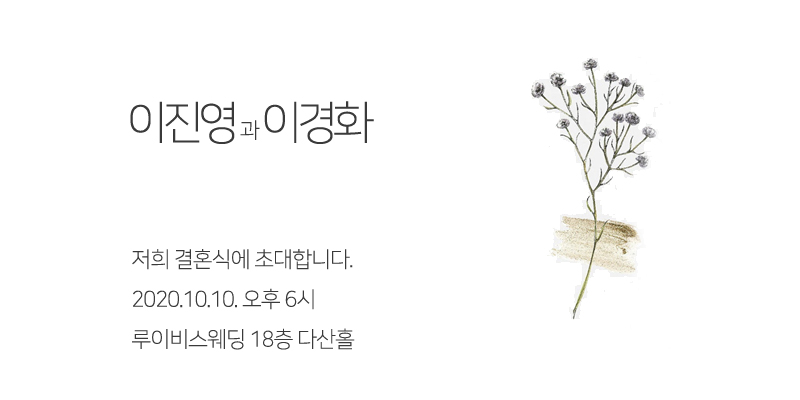
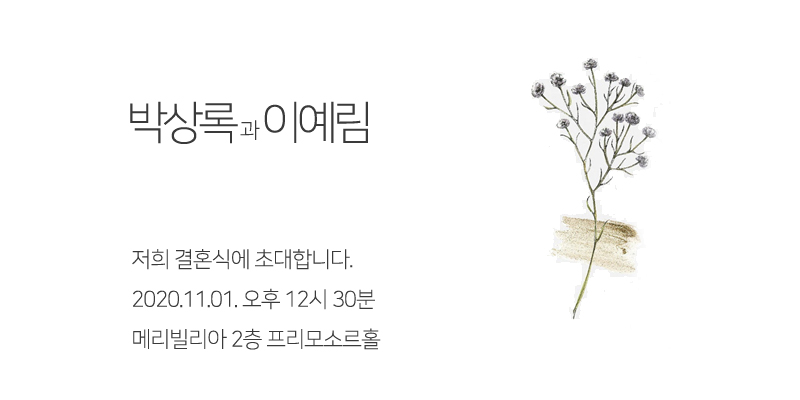
- 수정

diff --git a/wemarry/templates/ixjwgfi51r.html b/wemarry/templates/ixjwgfi51r.html
@@ -2,14 +2,14 @@
 <html>
 
 <head>
-    <title>[이진영♥이경화] 결혼식에 초대합니다.</title>
+    <title>[박상록♥이예림] 결혼식에 초대합니다.</title>
     <meta charset="utf-8">
     <meta http-equiv="Content-Type" content="text/html; charset=utf-8" />
     <meta name="viewport" content="width=device-width, user-scalable=no">
     <meta http-equiv="X-UA-Compatible" content="IE=edge" />
     <meta property="og:image" content="https://wemarry.pythonanywhere.com/media/ixjwgfi51r/web_share.jpg" />
-    <meta property="og:title" content="[이진영♥이경화] 결혼식에 초대합니다." />
-    <meta property="og:description" content="[이진영♥이경화] 결혼식에 초대합니다." />
+    <meta property="og:title" content="[박상록♥이예림] 결혼식에 초대합니다." />
+    <meta property="og:description" content="[박상록♥이예림] 결혼식에 초대합니다." />
 
     <link rel="stylesheet" type="text/css" href="https://cdn.jsdelivr.net/gh/moonspam/NanumSquare@1.0/nanumsquare.css">
     <!-- Link Swiper's CSS -->
@@ -23,44 +23,24 @@
 
     <script>
         var gallery_url = [];
-        gallery_url.push("https://1.bp.blogspot.com/-ukKm9taMtAo/XzIXDW6TlkI/AAAAAAABLSw/5SUefKplt7U0bStpzMLazGEgm20IQ3loACLcBGAsYHQ/s640/01.jpg");
-        gallery_url.push("https://1.bp.blogspot.com/-Jin_v2Uk55w/XzIXDRYRZbI/AAAAAAABLS4/MqG7-6DEL1YpJJyIAaLaR5OH-hLBjcszACLcBGAsYHQ/s640/02.jpg");
-        gallery_url.push("https://1.bp.blogspot.com/-8MxMFzEQ7mQ/XzIXDTyyDiI/AAAAAAABLS0/yf3nELH_dqw0DkFdIp-mw6S_xdps2N2twCLcBGAsYHQ/s640/03.jpg");
-        gallery_url.push("https://1.bp.blogspot.com/-xX_bTnizjps/XzIXFNlasxI/AAAAAAABLS8/pfHUEeVUrD4p7RyDMupUHW1ij9iFLmuTgCLcBGAsYHQ/s640/04.jpg");
-        gallery_url.push("https://1.bp.blogspot.com/-NtWBN-Y0DXQ/XzIXFReQjJI/AAAAAAABLTE/zPy1JOjqVm80aoO4RHOgqSYdxL81Gc_HACLcBGAsYHQ/s640/05.jpg");
-        gallery_url.push("https://1.bp.blogspot.com/-oHBIupn1vH0/XzIXFPX8OII/AAAAAAABLTA/J1YFe_aceRAD2e6lzp6AfOgjKrlBnW4-wCLcBGAsYHQ/s640/06.jpg");
-        gallery_url.push("https://1.bp.blogspot.com/-7saQO0ES29c/XzIXHKiYGBI/AAAAAAABLTM/Y72iWMqMz5oYBOpPKQJaUyu1r5j0VDM6gCLcBGAsYHQ/s640/07.jpg");
-        gallery_url.push("https://1.bp.blogspot.com/-H0eiFoxwwoI/XzIXG4hnHII/AAAAAAABLTI/5O4rqTuYA00AB_Kst2z3B0kT3K6jzCebQCLcBGAsYHQ/s640/08.jpg");
-        gallery_url.push("https://1.bp.blogspot.com/-XFOnen1HxvM/XzIXHKh09KI/AAAAAAABLTQ/bCLSP5boLAw35k4scPSTA1hBXOCEhSijwCLcBGAsYHQ/s640/09.jpg");
-        gallery_url.push("https://1.bp.blogspot.com/-u41sMbN7ZZ0/XzIXI7aWTMI/AAAAAAABLTY/Y1zums082osIFr3tOGH4p8GxJbpOavGFgCLcBGAsYHQ/s640/10.jpg");
-        gallery_url.push("https://1.bp.blogspot.com/-5bqRtEfzuZM/XzIXIwYTnUI/AAAAAAABLTc/ucZuuJU-yd8nPlVLlaEM6tEbh3L9blUzACLcBGAsYHQ/s640/11.jpg");
-        gallery_url.push("https://1.bp.blogspot.com/-mcmOwSU-_nA/XzIXI_7-anI/AAAAAAABLTU/v4Lla2C2prABxoZBVXmxSaWMuq8eJQqXQCLcBGAsYHQ/s640/12.jpg");
-        gallery_url.push("https://1.bp.blogspot.com/-Ln4r_P_nHwk/XzIXKcybmjI/AAAAAAABLTg/SakdQz3xMJIXttnASCHWjJT9c67hGnJFwCLcBGAsYHQ/s640/13.jpg");
-        gallery_url.push("https://1.bp.blogspot.com/-ocC8BOU43Ns/XzIXK2OlZWI/AAAAAAABLTk/6OsmkpIAApw3EpD-LybIfUJUeCsD-693wCLcBGAsYHQ/s640/14.jpg");
-        gallery_url.push("https://1.bp.blogspot.com/-k90B3D5tEK8/XzIXLXciEQI/AAAAAAABLTo/FyCEWSu4Cj0goZBG_t92y7mhrAr0BpyrgCLcBGAsYHQ/s640/15.jpg");
-        gallery_url.push("https://1.bp.blogspot.com/-R2199CtNKHo/XzIXLpBSPVI/AAAAAAABLTs/vq1mCmj8isQKCqmBpw9MJKiWofonLzCvwCLcBGAsYHQ/s640/16.jpg");
-        gallery_url.push("https://1.bp.blogspot.com/-u3za1-PCGPY/XzIXMOqX6VI/AAAAAAABLTw/vR4HRXWPpZQLhS90b6xQwXbFbizkSrx0gCLcBGAsYHQ/s640/17.jpg");
-        gallery_url.push("https://1.bp.blogspot.com/-Reg3uUiiJFI/XzIXNAez6FI/AAAAAAABLT4/cU1M4od77wo3NUjyHFVKmva7ufiIBrB5ACLcBGAsYHQ/s640/18.jpg");
-        gallery_url.push("https://1.bp.blogspot.com/-LjLCHbWFkQc/XzIXNIIQfRI/AAAAAAABLT0/IrWEPI5Nr3wF--GUfZtkjDAjBXsrL39vQCLcBGAsYHQ/s640/19.jpg");
-        gallery_url.push("https://1.bp.blogspot.com/-z_dRFmJ93lw/XzIXNXTjogI/AAAAAAABLT8/TK4IXGwUwEQ9yJw6evAh5d-gt7lcPQjYQCLcBGAsYHQ/s640/20.jpg");
-        gallery_url.push("https://1.bp.blogspot.com/-RKfkBakVEk8/XzIXOdOGjqI/AAAAAAABLUE/F1CA_DQ77WMmRaJCpAme-_bu9bR5aENLwCLcBGAsYHQ/s640/21.jpg");
-        gallery_url.push("https://1.bp.blogspot.com/-qLwsgcG1JRE/XzIXORClXxI/AAAAAAABLUA/s5W-OePh97k2DshBFKpf87FAvzXi7uPiwCLcBGAsYHQ/s640/22.jpg");
-        gallery_url.push("https://1.bp.blogspot.com/-LrNcCcp0Kc8/XzIXOvziTxI/AAAAAAABLUI/yhhtf1s42fgjx3tO8YN-4RqSCbmpa09LACLcBGAsYHQ/s640/23.jpg");
-        gallery_url.push("https://1.bp.blogspot.com/-RAqkcz0dfMo/XzIXPzaH56I/AAAAAAABLUM/BGY49lUqLM83fGUajRb-I-_1CuzGkbYSwCLcBGAsYHQ/s640/24.jpg");
-        gallery_url.push("https://1.bp.blogspot.com/-rrgporfPg_s/XzIXQLjPYAI/AAAAAAABLUU/KXHTHtt8XJMjUZp2PSxxLyIzQ9iefKqUgCLcBGAsYHQ/s640/25.jpg");
-        gallery_url.push("https://1.bp.blogspot.com/-CTVZNtNUDKI/XzIXQOuz_rI/AAAAAAABLUQ/MtSbERx0K8wDyJr9u6i0wskT5FMMz2M2ACLcBGAsYHQ/s640/26.jpg");
-        gallery_url.push("https://1.bp.blogspot.com/-BpQLbrAxJ9M/XzIXRQFuslI/AAAAAAABLUY/FbGsl4ot4jgVRKMyiB52eII0H77EoatJwCLcBGAsYHQ/s640/27.jpg");
-        gallery_url.push("https://1.bp.blogspot.com/-77aPuOGlElU/XzIXRhxUQgI/AAAAAAABLUc/gVrLrRv64XIO3REnVrf4tq_Vh5X6a0lRQCLcBGAsYHQ/s640/28.jpg");
-        gallery_url.push("https://1.bp.blogspot.com/-qsISMw0pmXA/XzIXRg6LbeI/AAAAAAABLUg/pLUGNv8jc_YEpAV_P-oVqfsDxB8qWL2ggCLcBGAsYHQ/s640/29.jpg");
-        gallery_url.push("https://1.bp.blogspot.com/-FecJ4eshnkw/XzIXSkxtXYI/AAAAAAABLUk/zVisBO-KvpkL3aBFKAw_QqpF3Ts-rTZewCLcBGAsYHQ/s640/30.jpg");
-        gallery_url.push("https://1.bp.blogspot.com/-kenm0_BC3VE/XzIXS5H-RiI/AAAAAAABLUo/0F2q9T-hzQQNyBecODNYfhvnhlDlnoDmgCLcBGAsYHQ/s640/31.jpg");
-        gallery_url.push("https://1.bp.blogspot.com/-PMM3GowpycY/XzIXTJpV82I/AAAAAAABLUs/ZybA_71n32oZ2_hEZLmAOzQETMT-WYBCgCLcBGAsYHQ/s640/32.jpg");
-        gallery_url.push("https://1.bp.blogspot.com/-lgv2JC3JRDc/XzIXTx-4gnI/AAAAAAABLUw/ko_WZuvYle4JhZJvGC1HJCqFjgxk0zU8ACLcBGAsYHQ/s640/33.jpg");
-        var mname = "이진영";
-        var wname = "이경화";
-        var weddingDate = "2020-10-10";
-        var lat = 37.5605763;
-        var lng = 126.9673246;
+        gallery_url.push("https://t1.kakaocdn.net/thumb/R2048x0.fjpg/?fname=http%3A%2F%2Fdn-m.talk.kakao.com%2Ftalkm%2Fbl3RmTS7YQH%2FwgjOqZN5nATBLSkQTs6KZk%2Fi_1cdw82yahx1r.jpeg");
+        gallery_url.push("https://t1.kakaocdn.net/thumb/R2048x0.fjpg/?fname=http%3A%2F%2Fdn-m.talk.kakao.com%2Ftalkm%2Fbl3TJ9eKF6o%2FMXJd0jwXeOnK5tpGVg2v0K%2Fi_5m5pdhvljwuw.jpeg");
+        gallery_url.push("https://t1.kakaocdn.net/thumb/R2048x0.fjpg/?fname=http%3A%2F%2Fdn-m.talk.kakao.com%2Ftalkm%2Fbl3TJ9MAlBD%2FUlRksluJ5J9kkCU7pyPXFK%2Fi_59fo4nvgy8bj1.jpeg");
+        gallery_url.push("https://t1.kakaocdn.net/thumb/R2048x0.fjpg/?fname=http%3A%2F%2Fdn-m.talk.kakao.com%2Ftalkm%2Fbl3RmUdqSkj%2FYR2fJqHiYC3FZKAbScJCc0%2Fi_p5r46788iuai.jpeg");
+        gallery_url.push("https://t1.kakaocdn.net/thumb/R2048x0.fjpg/?fname=http%3A%2F%2Fdn-m.talk.kakao.com%2Ftalkm%2Fbl3TKcifgKm%2FZtNh7hSbKdjEIXFXPG8kG1%2Fi_zj6kkgr1y8cq1.jpeg");
+        gallery_url.push("https://t1.kakaocdn.net/thumb/R2048x0.fjpg/?fname=http%3A%2F%2Fdn-m.talk.kakao.com%2Ftalkm%2Fbl3TKaLuTZ9%2FOcdFOR7t8C4085EkRBMHck%2Fi_b648nerwqohw.jpeg");
+        gallery_url.push("https://t1.kakaocdn.net/thumb/R2048x0.fjpg/?fname=http%3A%2F%2Fdn-m.talk.kakao.com%2Ftalkm%2Fbl3RmQB6MvK%2FSLVO7CM8AaOCLUvCpyYJPk%2Fi_6ddnqfldvce41.jpeg");
+        gallery_url.push("https://t1.kakaocdn.net/thumb/R2048x0.fjpg/?fname=http%3A%2F%2Fdn-m.talk.kakao.com%2Ftalkm%2Fbl3RmQPEBBY%2FSEk94oW29NfZqv0u0g8fLK%2Fi_2h6h0fwiuqmf.jpeg");
+        gallery_url.push("https://t1.kakaocdn.net/thumb/R2048x0.fjpg/?fname=http%3A%2F%2Fdn-m.talk.kakao.com%2Ftalkm%2Fbl3TKaY1Tw3%2FZ22ZKxcUidWkA3FfDqsRNk%2Fi_v8zwvseq88iq1.jpeg");
+        gallery_url.push("https://t1.kakaocdn.net/thumb/R2048x0.fjpg/?fname=http%3A%2F%2Fdn-m.talk.kakao.com%2Ftalkm%2Fbl3TJ6WDuyQ%2FrwlzH3GvmGbyt6mbqdkGV0%2Fi_3plc0fipxvh9.jpeg");
+        gallery_url.push("https://t1.kakaocdn.net/thumb/R2048x0.fjpg/?fname=http%3A%2F%2Fdn-m.talk.kakao.com%2Ftalkm%2Fbl3TJ9y3jbf%2FUXCfsJs6B0jWbGrGjkgtok%2Fi_t5yb874w7ial.jpeg");
+        gallery_url.push("https://t1.kakaocdn.net/thumb/R2048x0.fjpg/?fname=http%3A%2F%2Fdn-m.talk.kakao.com%2Ftalkm%2Fbl3TCdu4WpU%2Fekfidllb5lMoedIX50HIq1%2Fi_rgdvf10a0gjl.jpeg");
+
+        var mname = "박상록";
+        var wname = "이예림";
+        var weddingDate = "2020-11-01";
+        var lat = 37.380864;
+        var lng = 126.659300;
     </script>
 </head>
 
@@ -69,10 +49,10 @@
         <div class="header">
             <div class="top">
                 <div class="name">
-                    이진영<span>과</span>이경화
+                    박상록<span>과</span>이예림
                 </div>
                 <div class="pos">
-                    저희 결혼식에 초대합니다.<br />2020.10.10. 오후 6시<br />루이비스웨딩 18층 다산홀
+                    저희 결혼식에 초대합니다.<br />2020.11.01. 오후 12시 30분<br />메리빌리아 2층 프리모소르홀
                 </div>
 
                 <div class="object">
@@ -81,7 +61,7 @@
             </div>
             <div class="bottom">
                 <img
-                    src="https://1.bp.blogspot.com/-rrgporfPg_s/XzIXQLjPYAI/AAAAAAABLUU/KXHTHtt8XJMjUZp2PSxxLyIzQ9iefKqUgCLcBGAsYHQ/s640/25.jpg" />
+                    src="https://t1.kakaocdn.net/thumb/R2048x0.fjpg/?fname=http%3A%2F%2Fdn-m.talk.kakao.com%2Ftalkm%2Fbl3TCcQtB4n%2FujDGuQazzf2PyLvDK6Y5qk%2Fi_re5gmwvqudox1.jpeg" />
             </div>
         </div>
         <div class="contents">
@@ -90,18 +70,22 @@
                     <h2>INVITATION</h2>
                 </div>
                 <div class="info">
-                    평생 직장을 찾으러 간 소방학교에서<br/>
-                    평생 함께할 인연까지 찾았습니다.<br/>
-                    이제 두 사람, 세찬 바람에도 꺾이지 않는<br/>
-                    건실한 나무를 닮은 사랑으로<br/>
-                    가정을 이루고자 합니다.<br/>
-                    많은 축복과 응원 부탁드립니다.<br/>
+                    평생을 같이하고 싶은 사람을 만났습니다. <br>
+                    서로 아껴주고 이해하며 <br>
+                    사랑 베풀며 살고 싶습니다. <br>
+                    저희 약속 위에 따뜻한 격려로 축복해 <br>
+                    주셔서 힘찬 출발의 디딤이 되어 주십시오.<br><br>
+                    
+                    코로나19로 인하여 참석이 어려우시더라도<br>
+                    계신 자리에서 축복해 주시면<br>
+                    그 마음 평생 간직하고 <br>
+                    행복하게 잘 살겠습니다.
                 </div>
                 <div class="name">
-                    진영.경화<br /> 올림
+                    상록.예림<br /> 올림
                 </div>
                 <div class="parent">
-                    이상일.안미옥의 딸 경화<br /> 이형광.이미경의 아들 진영<br />
+                    박학순.김윤숙의 아들 상록<br /> 이종국.박미선의 딸 예림<br />
                 </div>
             </div>
             <div class="title">
@@ -132,9 +116,9 @@
                 </div>
                 <div id="map"></div>
                 <div class="map_info">
-                    <span>서울 중구 청파로 63 한국경제신문사</span><br />
-                    <span class="addr">18층 루이비스웨딩 다산홀</span><br /><br />
-                    <span>02-312-6800</span>
+                    <span>인천광역시 연수구 송도과학로 16번길 33-1</span><br />
+                    <span class="addr">메리빌리아 2층 프리모소르홀</span><br /><br />
+                    <span>032-864-5500</span>
                 </div>
             </div>
         </div>
@@ -176,6 +160,8 @@
         calendar_set(mname, wname, weddingDate);
 
         map_set(lat, lng);
+
+        $(".month").css("font-size","26px")
     });
 </script>
 
